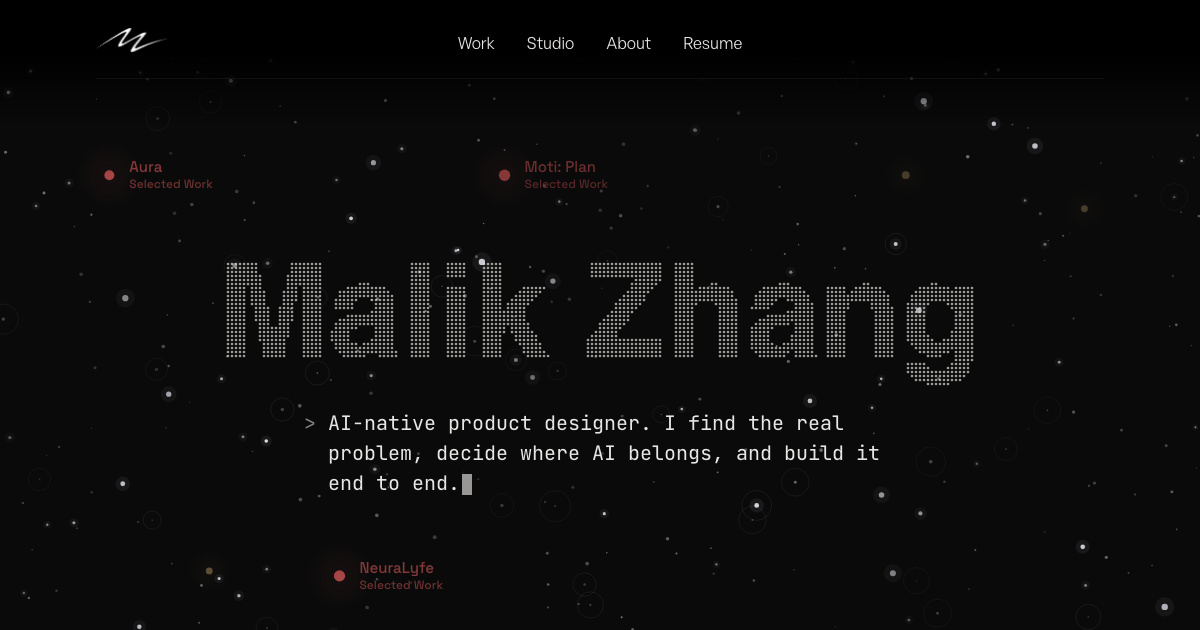
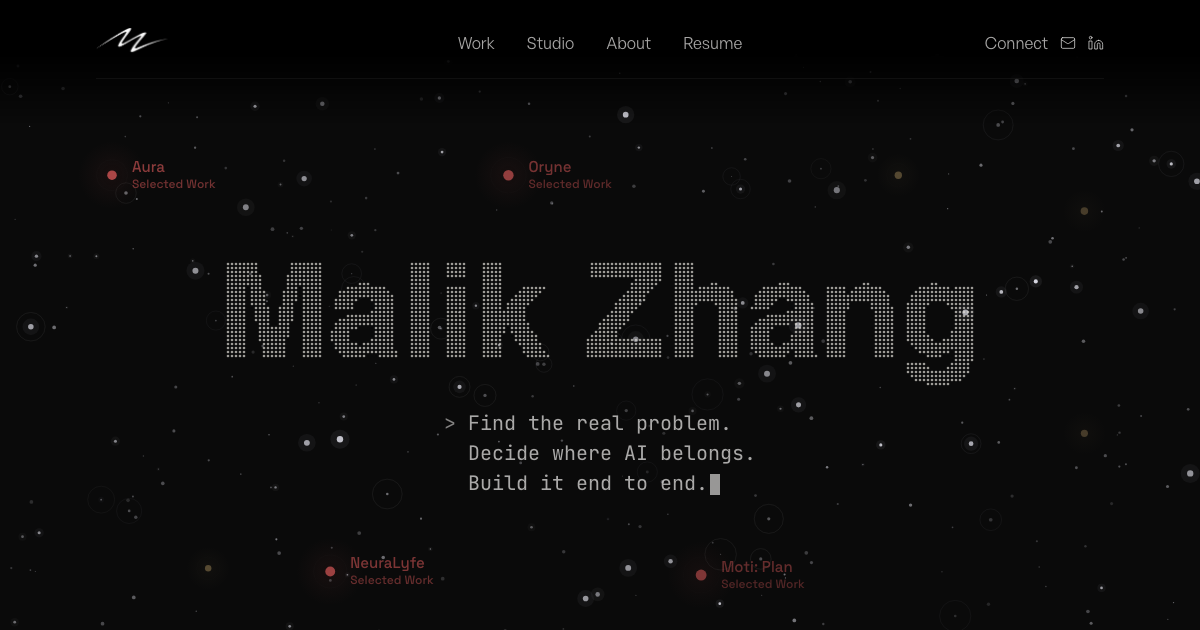
Set the hero statement as three imperatives
"Find the real problem. Decide where AI belongs. Build it end to end."
replaces the single "AI-native product designer…" sentence. The breaks are
authored rather than left to the measure, so no width ever splits "AI" from
"belongs": one line from lg, two on tablets, one sentence per line on
phones. The typewriter treats the newline as a punctuation pause.

The hidden link on the leading word "AI-native" (a hover-only route to the
Moti case study) goes with the sentence that carried it.

- The hero no longer holds an arbitrary measure, so its exemption comes off
  the boundary test's list rather than sitting there exempting nothing.
- public/og-image.png is regenerated from the hero (npm run generate:og),
  since the share image is a screenshot of this statement.

diff --git a/src/components/HeroSection.tsx b/src/components/HeroSection.tsx
@@ -1,5 +1,4 @@
-import { useState, useEffect, useRef, type ReactNode } from "react";
-import { Link } from "react-router-dom";
+import { useState, useEffect, useRef } from "react";
 import DotGrid from "./DotGrid";
 import AboutOverlay from "./AboutOverlay";
 import { SiteHeader } from "./SiteHeader";
@@ -19,23 +18,13 @@ interface HeroSectionProps {
 }
 
 // ── Terminal one-liner ──────────────────────────────────────────────────────
-const TERMINAL_TEXT =
-  "AI-native product designer. I find the real problem, decide where AI belongs, and build it end to end.";
-
-// The leading word "AI-native" is a subtle Easter-egg link to the Moti project.
-// It inherits the subtitle's exact styling and only reveals itself on hover/focus,
-// navigating via the same router a project card uses (→ /project/moti).
-const ACCENT_WORD = "AI-native";
-
-const MotiLink = ({ children }: { children: ReactNode }) => (
-  <Link
-    to="/project/moti"
-    aria-label="Go to Moti, my AI-native iOS app"
-    className="pointer-events-auto cursor-pointer rounded-sm text-inherit no-underline transition-colors duration-medium hover:text-dot-red focus-visible:text-dot-red focus-visible:outline-none focus-visible:ring-2 focus-visible:ring-dot-red/60"
-  >
-    {children}
-  </Link>
-);
+// Three imperatives. The breaks are authored so no width ever splits "AI" from
+// "belongs": one line from lg, two on tablets (the break before the last
+// sentence), one sentence per line on phones. whitespace-pre-line honours the
+// newline; lg:whitespace-normal folds it back into a space.
+const SENTENCES = ["Find the real problem.", "Decide where AI belongs.", "Build it end to end."];
+const TERMINAL_TEXT = `${SENTENCES[0]} ${SENTENCES[1]}\n${SENTENCES[2]}`;
+const MOBILE_TEXT = SENTENCES.join("\n");
 
 const TerminalOneLiner = ({ isVisible }: { isVisible: boolean }) => {
   const [len, setLen] = useState(0);
@@ -57,7 +46,7 @@ const TerminalOneLiner = ({ isVisible }: { isVisible: boolean }) => {
       const ch = TERMINAL_TEXT[pos];
       // Organic pacing: pause longer at punctuation, vary base speed slightly
       const delay =
-        ch === "," || ch === "." ? 130
+        ch === "," || ch === "." || ch === "\n" ? 130
         : ch === " " ? 18
         : 24 + Math.random() * 22;
       timerRef.current = setTimeout(() => {
@@ -87,10 +76,8 @@ const TerminalOneLiner = ({ isVisible }: { isVisible: boolean }) => {
     <div className="flex items-baseline gap-2 md:gap-3 text-label md:text-xl font-mono leading-relaxed px-6">
       {/* Prompt glyph — items-baseline keeps it on the first text line */}
       <span className="text-foreground-tertiary shrink-0 select-none">{'>'}</span>
-      {/* 43ch is just wide enough for "…and build" and just short of "…and build it". */}
-      <span className="text-foreground-secondary text-left max-w-[43ch]">
-        <MotiLink>{TERMINAL_TEXT.slice(0, Math.min(len, ACCENT_WORD.length))}</MotiLink>
-        {TERMINAL_TEXT.slice(ACCENT_WORD.length, len)}
+      <span className="text-foreground-secondary text-left whitespace-pre-line lg:whitespace-normal">
+        {TERMINAL_TEXT.slice(0, len)}
         <span
           className="inline-block align-middle ml-0.5"
           style={{
@@ -165,8 +152,8 @@ const HeroSection = ({ isAboutOpen, onAboutClick, onAboutBack, onSectionClick }:
         }}
         transition={{ duration: 0.7, delay: isAboutOpen ? 0 : isLoaded ? 1.2 : 0 }}
       >
-        <p className="text-sm text-foreground-secondary font-mono leading-snug max-w-[340px] text-left px-6">
-          <MotiLink>{ACCENT_WORD}</MotiLink>{TERMINAL_TEXT.slice(ACCENT_WORD.length)}
+        <p className="text-sm text-foreground-secondary font-mono leading-snug whitespace-pre-line text-left px-6">
+          {MOBILE_TEXT}
         </p>
       </motion.div>
 

diff --git a/src/design-system/boundary.test.ts b/src/design-system/boundary.test.ts
@@ -60,9 +60,6 @@ const SIMULATED_DEVICE_UI = "src/components/project-detail/FlowPrintHmi.tsx";
 const MEASURE_EXEMPTIONS: Record<string, string[]> = {
   // 36ch is the About editorial description, tuned with authored line breaks.
   "src/components/AboutEditorialSection.tsx": ["max-w-[36ch]"],
-  // 43ch is the hero terminal statement: wide enough for "…and build", one
-  // character short of "…and build it", so the line breaks where it was written.
-  "src/components/HeroSection.tsx": ["max-w-[43ch]"],
   // The Oryne pages' lead and contact paragraphs were wrapped by hand at 60
   // and 62ch; the body measure (64ch) breaks "On-device" at the hyphen.
   "src/pages/OryneSupport.tsx": ["max-w-[60ch]"],
